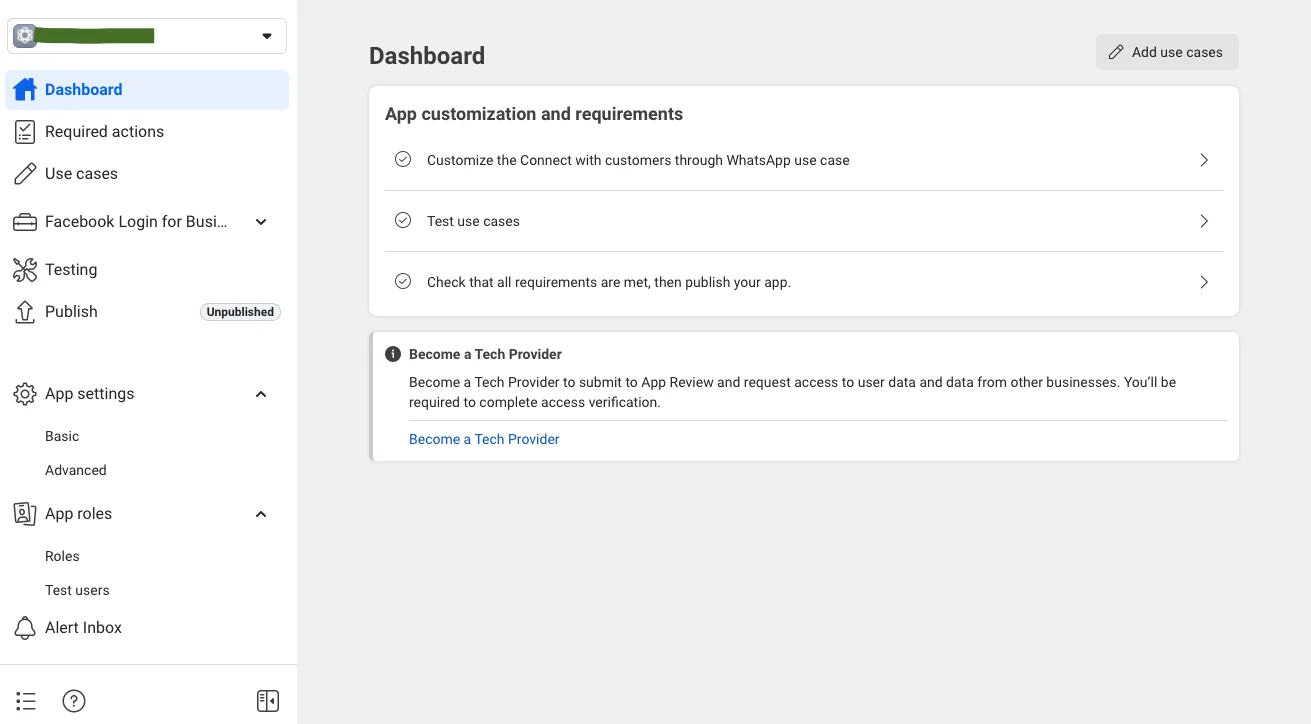
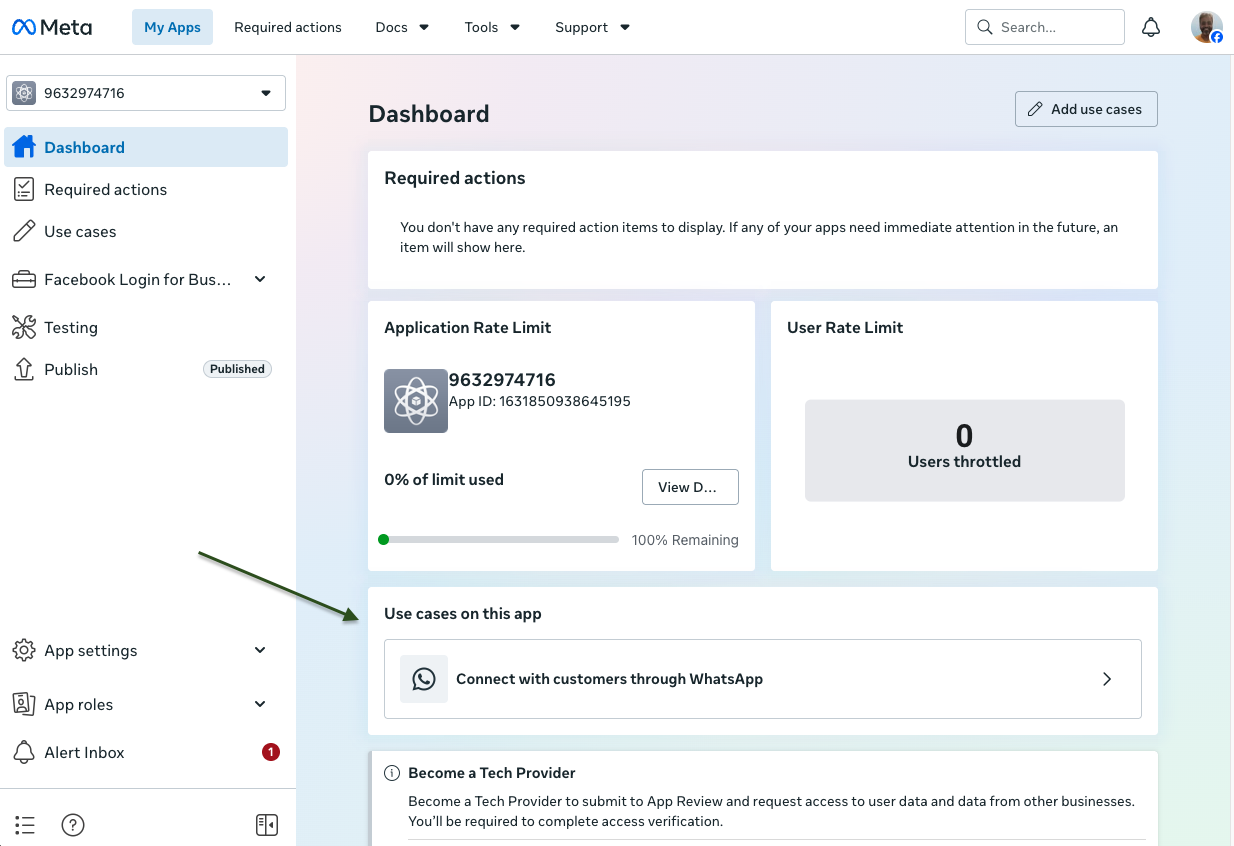
whatsapp documentation update

diff --git a/sidebars.js b/sidebars.js
@@ -117,7 +117,7 @@ const sidebars = {
                 'channels/whatsapp/business-setup/create-a-meta-app',
                 'channels/whatsapp/business-setup/generate-whatsapp-token',
                 'channels/whatsapp/business-setup/add-phone-number',
-                'channels/whatsapp/business-setup/publish-meta-app',
+                'channels/whatsapp/business-setup/update-webhooks-in-meta',
               ]
             },
             'channels/whatsapp/quick-start',

diff --git a/.ai/doc-updates-may-aug-2026/information-architecture-plan.md b/.ai/doc-updates-may-aug-2026/information-architecture-plan.md
@@ -1,0 +1,162 @@
+# High-Level Information Architecture Plan For May-August 2026 Updates
+
+## Current IA Findings
+
+The current `pd-docs` structure is organized around these top-level groups:
+
+- Introduction
+- Platforms
+- Getting Started
+- Channels
+- Providers
+- Tools
+- Features
+- API Reference (Beta)
+- FAQs
+
+This structure worked for a product centered on channels, AI resources, provider-specific function calling, and provider-specific file search. The May-August 2026 code changes shifted the product toward a richer agent configuration model where users configure API actions, file search, app connections, tool rules, and session tool traces. The current IA does not yet expose that model clearly.
+
+The backend can process multiple skills, but the current UI supports configuring a single skill. For public documentation, the primary user-facing concept should therefore be **Agent Configuration**, not Skills. Backend terms such as `skills` should appear only where needed in API reference pages.
+
+The most important gaps are:
+
+- Getting Started is too shallow for the current product. It still explains "Create Chatbot Agent" as a short AI-resource setup flow, not the current configuration workflow.
+- Tools is conceptually useful, but it is still framed as generic function calling/file search instead of the current Agent Configuration model.
+- Function Calling should become **API Actions**. The old name is implementation-oriented and should be retired from the primary IA.
+- Providers contains important setup steps, but provider pages currently carry too much feature education. This makes users learn capabilities by provider instead of by job-to-be-done.
+- The OpenAI Assistant provider section should be removed from the target IA.
+- Features mixes operational dashboard pages like Sessions, Reports, and API Keys. It does not yet explain session tool traces, classification traces, or how to debug agent configuration.
+- API Reference (Beta) is a strong foundation for the external API, but it is missing the newer skills-backed configuration endpoints, capabilities, app connection, integration/OAuth, and vector-store upload APIs.
+- Some existing docs now conflict with current defaults. File search currently documents older chunk defaults in multiple places, while code now uses chunk size `250`, overlap `20`, max results `3`, and threshold `0.2`.
+
+## Proposed IA Direction
+
+Reshape the docs around the lifecycle of an agent:
+
+1. Learn what Predictable Dialogs does.
+2. Create and configure an agent.
+3. Configure what the agent can know, do, and decide.
+4. Monitor sessions, tool traces, feedback, and reports.
+5. Customize theme and branding.
+6. Publish through a channel.
+7. Automate/manage the same resources through APIs.
+
+This is more intuitive because it follows the user's mental model: "I want a chatbot that can answer, act, book, and be embedded," not "I need to understand provider-specific implementation details first."
+
+## Recommended Top-Level Navigation
+
+Use this top-level order:
+
+- **Introduction**
+- **Platforms**
+- **Getting Started**
+- **Agent Configuration**
+- **Monitor & Improve**
+- **Theme & Branding**
+- **Channels**
+- **Providers**
+- **API Reference**
+- **FAQs**
+
+Keep the current Docusaurus foundation, but adjust the emphasis within that order:
+
+- **Getting Started**
+  - Preserve as the fastest first-run path.
+  - Expand from two pages into a short activation path: create an agent, add instructions/AI, configure the first useful capability, choose a channel, test a session.
+
+- **Agent Configuration**
+  - Replace the current top-level Tools section with Agent Configuration.
+  - Explain this section as the place to configure what the agent can know, do, and decide.
+  - Cover instructions/AI basics, file search, API actions, app connections, Google Calendar, tool rules, API keys, autosave/save behavior, and testing before publish.
+  - Do not expose Skills as the primary public concept while the UI supports one configurable skill.
+
+- **Monitor & Improve**
+  - Rename or reshape the current Features area.
+  - Include Sessions, tool traces, file search chunks, classification traces, Feedback, Reports, and API Keys if kept as a dashboard-management topic.
+  - Make session debugging a clear follow-up after configuring the agent.
+
+- **Theme & Branding**
+  - Promote Web Theme from deep under Channels because theme is a major agent setup workflow.
+  - Keep channel-specific theme details under Web as links or short pages that point to the new Theme & Branding section.
+  - Update font/theme docs for current Google Fonts behavior and remove stale theme fields.
+
+- **Channels**
+  - Keep Web and WhatsApp here.
+  - Channels should answer "where does my agent run?" and should link back to Agent Configuration only where channel behavior changes.
+  - Refresh WhatsApp setup/troubleshooting if the June reliability changes surfaced user-facing behavior.
+
+- **Providers**
+  - Keep Providers focused on AI resource setup, credentials, model/provider differences, and caveats.
+  - Remove the OpenAI Assistant provider section from the target IA.
+  - Do not use provider pages as the main home for tools, file search, API actions, or app connections.
+
+- **API Reference**
+  - Keep as a reference section, but split into clearer groups:
+    - Basics: authentication, making requests, errors/rate limits.
+    - Agent management: agents, AI resources, theme, sessions.
+    - Configuration APIs: skills-backed endpoints, skill tools, capabilities, item reorder, vector store upload.
+    - App connections: API connections, integration connections, Google Calendar OAuth and revoke.
+  - Add `apiRequestKey` and upload retry/idempotency behavior where vector store uploads are documented.
+  - Explain backend terms like `skills` in plain language when endpoint paths require them.
+
+## Agent Configuration Structure
+
+Agent Configuration should absorb the current Tools section and become the main home for configuration concepts:
+
+- **Overview**: What the agent can know, do, and decide.
+- **Instructions and AI Resources**: How instructions and AI resource selection affect behavior; link to Providers for credentials/provider setup.
+- **File Search / Knowledge**: Uploading files, vector store behavior, current defaults, relevance threshold, max results, and troubleshooting.
+- **API Actions**: Replaces current Function Calling. Explain API endpoints, GET/POST behavior, inputs/schema, authentication, responses, and testing.
+- **App Connections**: OAuth-backed app capabilities and connection management.
+- **Google Calendar**: Lives inside App Connections. Cover OAuth/reconnect, allowed actions, booking policy, availability, appointment duration, notice, booking horizon, timezone, and revocation.
+- **Tool Rules**: Conditional classifier, labels/use-when, run-after dependencies, cooldown, and how to inspect rule behavior in sessions.
+- **API Keys**: Keep or link key-management docs here when they are used for AI resources, file search, and API actions.
+
+Avoid a public "Skills" section. If the term appears in screenshots or API endpoints, explain it as an implementation container behind Agent Configuration.
+
+Avoid documenting runtime as a user-facing concept. Session/tool trace docs can say "what happened during a conversation" without naming runtime internals.
+
+## Monitor & Improve Structure
+
+Monitor & Improve should replace the current Features mental model for post-setup workflows:
+
+- **Sessions overview**: conversation history, session deletion, active-session behavior, and user information capture.
+- **Tool usage in sessions**: API action calls, app connection calls, arguments, outputs, status, duration, and copied details.
+- **File search traces**: chunks, filenames, relevance scores, threshold, and result sent to the model.
+- **Tool-rule traces**: visible classification/rule traces where exposed by the UI.
+- **Feedback**: message feedback and corrective answers.
+- **Reports**: daily email reports, time, timezone, recipients, update/disable behavior.
+
+Cross-link back to Agent Configuration when a session trace suggests changing file search settings, API actions, app connections, or tool rules.
+
+## Content Migration Strategy
+
+- Treat existing Tools pages as reusable concept material, not final IA.
+- Merge current Function Calling content into API Actions.
+- Move provider-neutral explanations out of Providers into Agent Configuration.
+- Keep Providers focused on credentials, model/resource setup, provider limitations, and provider-specific caveats.
+- Move dashboard workflow docs out of isolated feature pages when they are part of a larger journey. For example, file search settings belong in Agent Configuration, while session trace review belongs in Monitor & Improve.
+- Use one canonical page for current file search defaults and link to it from provider/API pages to avoid default drift.
+- Move Google Calendar under App Connections, not a top-level Integrations section.
+- Remove OpenAI Assistant provider pages from the target sidebar. Preserve old URLs through redirects, stub pages, or retained pages if needed for SEO/backward compatibility.
+- Add cross-links at workflow boundaries: Agent Configuration pages link to Monitor & Improve for debugging; Sessions links back to Tool Rules, File Search, API Actions, and App Connections.
+
+## Rollout Plan
+
+1. Create the new IA skeleton in `sidebars.js` using the agreed top-level order.
+2. Add landing/overview pages for Agent Configuration, Monitor & Improve, and Theme & Branding.
+3. Move or rewrite current Tools content under Agent Configuration, with Function Calling becoming API Actions.
+4. Place Google Calendar under Agent Configuration > App Connections.
+5. Remove OpenAI Assistant from Providers in the target sidebar while preserving old URLs where practical.
+6. Update Getting Started to reflect the new configuration flow and link into Agent Configuration, Monitor & Improve, Theme & Branding, and Channels.
+7. Expand API Reference for skills-backed configuration endpoints, capabilities, app connections, Google Calendar OAuth/revoke, and vector-store upload/idempotency.
+8. Refresh screenshots only after the IA and page boundaries are stable.
+9. Run a Docusaurus build and broken-link check after each IA phase.
+
+## Assumptions
+
+- The docs should remain user-facing and product-oriented; internal deployment/runbook changes should stay out unless there is a dedicated operator section.
+- Existing published URLs should be preserved with redirects or retained pages where possible.
+- The next planning pass should choose exact page locations and page-level outlines before content writing starts.
+- The UI supports one configurable skill today, so docs should not teach multi-skill workflows.
+- Backend multi-skill support and runtime internals should not shape public IA until the UI exposes them.

diff --git a/.ai/doc-updates-may-aug-2026/changelog-analysis.md b/.ai/doc-updates-may-aug-2026/changelog-analysis.md
@@ -1,0 +1,76 @@
+# Documentation Changelog Analysis: May 1-August 14, 2026
+
+## Summary
+
+This file analyzes `api-automation` and `api-automation-webapp` commits from May 1, 2026 through August 14, 2026 as source material for future `pd-docs` updates. It does not choose final doc locations or make published documentation changes.
+
+The main documentation themes are External API coverage, the new Skills builder/runtime, file search and vector stores, Google Calendar OAuth, tool rules, session tool traces, WhatsApp/runtime reliability notes, and UI workflow changes.
+
+## Backend: `api-automation`
+
+| Commit | Files changed | Documentation update needed |
+| --- | --- | --- |
+| `3f0bd09` 2026-05-03 external APIs | `src/external/*`, `chat-sessions.db` | Add external API coverage for agents, sessions, conversations, delete session, and flag conversation. |
+| `63f5475` 2026-05-07 API refactor | `agent`, `ai`, `external`, `assistant-create`, DB helpers | Document external AI resource creation/listing and agent AI attachment flows. |
+| `844df38` 2026-05-11 API for adding AI and agents | `agent`, `apikey`, `external/agent-ai*`, assistant DB | Update API docs for creating agents/AI resources and API key handling. |
+| `418ad61` 2026-05-12 API changes | `agent.controller`, `assistants.controller`, `external/*` | Capture changed request/response behavior for external agent and AI endpoints. |
+| `09e096d`, `069cb9a` 2026-05-13 docs commits | `src/external/README.md`, API structure plans | Use as source material only; reconcile with current code before publishing. |
+| `e5e50be` 2026-05-17 external theme API | `external/agent-theme*`, `start-mode`, theme service | Add external theme API: get/patch theme, upload theme asset, supported theme payloads. |
+| `50168a2`, `eb4ac8d` 2026-05-17 bug fixes | `external`, `subscription.guard`, `start-mode` | Note auth/subscription/start-mode behavior corrections if user-visible. |
+| `086393b` 2026-05-23 API tests | `external/tests`, `env.example`, external README/plans | Mine e2e tests for valid examples and error scenarios. |
+| `98b1b11` 2026-05-26 root theme cleanup | `agent-theme.service`, `bot.db`, tests | Update theme docs: `customIconUrl` removed from root theme shape. |
+| `b6b5714` 2026-06-17 ops/memory/WhatsApp | deployment, memory monitor, debug module, WhatsApp | Add ops notes only if `pd-docs` has admin/deployment docs; otherwise no user docs. |
+| `68edd18`, `c32e463`, `5881c82` 2026-06-18/19 WhatsApp fixes | `whatsapp.*`, session/cache/chat files | Review WhatsApp setup/troubleshooting docs for webhook reliability, token/phone ID behavior, and logs. |
+| `f8ffed5` 2026-06-24 upload failures | vector-store OpenAI strategy, concurrency util | Document file upload failure behavior: stop launching remaining uploads after failure; improved error reporting. |
+| `b9d5aa5` 2026-06-25 dependency cleanup | `package.json`, lockfile | No product docs. |
+| `619ec4b` 2026-07-28 skills | 406 files across Prisma, `chat-engine`, `tools`, `integrations`, `vector-store`, access/module refactors | Major docs required: Skills concept, skill items, API actions, file search, app connections, tool policy, runtime/tool traces, Google Calendar integration, OAuth, capabilities, vector store settings. |
+| `6f4ee7d` 2026-07-28 seed Google Calendar | capabilities, skill seeder, skills module | Document seeded Google Calendar capability and expected actions/policies. |
+| `6b0a7d2` 2026-07-28 deployment build | deployment docs/scripts | Ops-only docs if deployment docs are maintained externally. |
+| `2387342` 2026-08-03 env management | env manifest, startup validation, encryption canary | Add deployment/admin docs for generated env manifest, required env validation, encryption secret canary. |
+| `cd365b3` 2026-08-04 prompt composition | agentic turn prompt composer, `ai.chat` | Update runtime behavior docs if explaining how active skills/tools are presented to the model. |
+| `77856e2`, `d481af2` 2026-08-05 vector store delete | skill repository/service, vector store DB/service | Document deletion semantics: deleting agents/skills can delete associated vector stores/files. |
+| `4c5f019` 2026-08-06 idempotent uploads | `api-request-cache`, skill vector upload controller | Document `apiRequestKey` requirement for skill vector store `create_store` uploads and retry/idempotency behavior. |
+| `d1735a3`, `d16ec5d` 2026-08-08 conditional tool changes | tool policy, classifier types, runtime skills | Update tool rules docs: conditional classifier vocabulary no longer uses "question"; conditional tool behavior changed. |
+| `c7e10ea` 2026-08-09 classification traces | runtime audit, LLM classification service/types | Document session/debug trace fields for classification: instructions/context/use-when where exposed. |
+| `0fdb277` 2026-08-12 tool policy refactor | policy builder/resolver, repositories, runtime | Update Skills API/tool rules docs for UI-authored tool policy, classifier builder, conditional/run-after/cooldown behavior. |
+| `61d73ef` 2026-08-13 API debug logging | request logger middleware, `main.ts` | No user docs unless adding support/troubleshooting logging notes. |
+| Version/AGENTS-only commits | `version.txt`, `AGENTS.md` | No product documentation updates. |
+
+## Frontend: `api-automation-webapp`
+
+| Commit | Files changed | Documentation update needed |
+| --- | --- | --- |
+| `f0b3131` 2026-05-12 sessions split screen | `ChatSessionDisplay.js` | Update screenshots only if sessions UI docs show old layout. |
+| `ecb11aa` 2026-05-26 agent title layout | `AgentTitleCard.js` | Screenshot-only update if needed. |
+| `ee3b8a4` 2026-05-26 tweet fix | landing tweet/package/sitemap | No `pd-docs` product update. |
+| `4960d00`, `278ab8a` 2026-06-18 privacy | `pages/privacy.js` | Not `pd-docs` unless privacy/legal pages are mirrored. |
+| `62169b0`, `a253fb0`, `50c0b8b`, `441191d` 2026-06-20/23 planning/design | `plans/*`, `DESIGN.md`, `PRODUCT.md` | Use as background only; not implementation evidence by itself. |
+| `745c28d` 2026-06-30 tool usage in sessions | `ComplexChatCard.js` | Document session tool usage display and what users can inspect. |
+| `90edb7c` 2026-07-28 skills UI | 103 files across chatbot builder, services, file upload, sessions, integrations, layouts | Major docs required: new Chatbot Agent builder, Skills page/workflow, add/manage skill item, API action, file search item, Google Calendar app connection, OAuth result page, tool cards in sessions. |
+| `e82c20a` 2026-07-29 calendar/email reports | Google Calendar policy, email report modal/form, timezone/time picker | Document Google Calendar booking policy fields and email report scheduling/timezone behavior. |
+| `3b1e4c9` 2026-08-03 useDefaults comments | `agentTypes.js` | No direct docs unless explaining default agent templates. |
+| `867a4c0`, `8294fa5`, `d251137`, `4a9e2d6` 2026-08-04/05 autosave/UI fixes | builder, assistant config, upload form, feedback alert, autosave hook | Update docs to reflect autosave/save-button behavior and current upload/settings UX. |
+| `a47851b` 2026-08-05 fonts | theme files, `FontService.js`, live customizer | Document theme font selection behavior and Google Fonts dependency if exposed to users. |
+| `a5a95e3`, `85a10ec`, `320c600` 2026-08-06/09 session tool cards | file search/generic tool cards, complex chat card | Update session docs for expanded tool previews, file search chunks, classification tool details, copied args/output. |
+| `2176171` 2026-08-07 upload request key | file upload form, vector store service, API utilities | Pair with backend docs: vector store upload retries require/generated `apiRequestKey`. |
+| `06614be` 2026-08-07 UI fixes | builder, file upload, Sentry, modal | Screenshot/UX wording refresh for builder/file upload flows. |
+| `10dac0e`, `59d8cc3` 2026-08-07/08 app connection refactor | app connection hooks/fields | Document only one Google Calendar app capability selection and OAuth connection reuse/reconnect behavior. |
+| `8f146f7`, `a5c1300` 2026-08-09/12 conditional tools | tool rules editors/helpers/defaults | Document classifier presets, labels, "Only for certain requests", "Use this after another item", cooldown, and conditional/run-after combination behavior. |
+| `9d7de69` 2026-08-10 default chunk size | file search settings | Update defaults: chunk size `250`, overlap `20`, max results `3`, score threshold `0.2`. |
+| `c314b9f` 2026-08-13 session active delete fix | session table/layout | Note only if docs mention post-delete session behavior. |
+| `d1bf72e` 2026-08-13 logging | `utils/api.js` | No user docs unless support docs mention client-side API logging. |
+| AGENTS/VSCode-only commits | `AGENTS.md`, `.vscode/settings.json` | No product documentation updates. |
+
+## Documentation Work To Plan Next
+
+- Build one user-facing changelog entry around the new Skills system rather than scattering every implementation commit.
+- Add API reference material for external `/v1/agents`, `/v1/ai`, agent theme endpoints, skills endpoints, capabilities, API connections, Google Calendar OAuth, and skill vector store uploads.
+- Add workflow docs for creating a chatbot agent, adding skill items, configuring API actions/file search/app connections, setting tool rules, and reading tool traces in sessions.
+- Refresh screenshots after content decisions, especially builder, file search settings, Google Calendar policy, session tool cards, and theme/font controls.
+- Keep ops-only changes separate from customer docs unless `pd-docs` intentionally documents deployment/admin operations.
+
+## Assumptions
+
+- "From May 2026 till today" means commits dated May 1, 2026 through August 14, 2026 inclusive.
+- `version.txt`, `AGENTS.md`, `.vscode`, dependency-only, and planning-only commits should be recorded but usually do not require public documentation.
+- This is an analysis plan only; no `pd-docs` published documentation pages are modified and no final doc locations are selected here.

diff --git a/docs/channels/whatsapp/quick-start.md b/docs/channels/whatsapp/quick-start.md
@@ -30,7 +30,7 @@ To complete this step you would need your **WhatsApp token** & **Phone Number Id
   - Scroll down on the meta page and locate the field with the name **"messages"**, click the toggle button so it is **"Subscribed"**.
 
 :::danger Final Step Required
-Before you start sending live WhatsApp messages, complete **[Publish Meta App](/docs/channels/whatsapp/business-setup/publish-meta-app)**.
+Before you start sending live WhatsApp messages, complete the publishing step in **[Create a Meta App](/docs/channels/whatsapp/business-setup/create-a-meta-app)**.
 :::
 
 Now, send a message to your WhatsApp Business Phone Number configured and you should get a reply from the PD agent! (Sometimes it takes a few hours for Meta to
